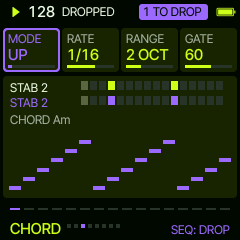
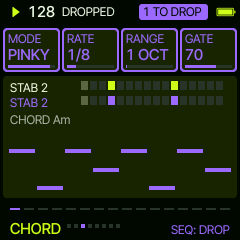
Sardine 0.8.13: ARP turned on from OFF: PINKY, 1/8, one octave, gate 70
Claude-Session: https://claude.ai/code/session_01VgesZgNNDFiPGvKyDTZVUK

diff --git a/firmware/src/sa_ui.c b/firmware/src/sa_ui.c
@@ -1884,7 +1884,14 @@ void sv_knob(sa_ui *u, int k, int d)
         }
         break;
     case SVP_ARP:
-        if (i == 0) e->amode = (uint8_t)sv_clampi(e->amode + d, 0, SA_AR_MODES - 1);
+        if (i == 0 && e->amode == SA_AR_OFF && d > 0) {   /* ARP on: PINKY, 1/8, one octave, gate 70 */
+            e->amode = SA_AR_PINKY;
+            e->arate = SA_RATE_8;
+            e->arange = 1;
+            e->agate = 70;
+        } else if (i == 0) {
+            e->amode = (uint8_t)sv_clampi(e->amode + d, 0, SA_AR_MODES - 1);
+        }
         else if (i == 1) e->arate = (uint8_t)sv_clampi(e->arate + d, 0, SA_RATES - 1);
         else if (i == 2) e->arange = (uint8_t)sv_clampi(e->arange + d, 1, 4);
         else SV_ADJ(e->agate, 5, 10, 100);

diff --git a/tests/sa_ui_test.c b/tests/sa_ui_test.c
@@ -341,7 +341,11 @@ int main(int argc, char **argv)
     all_palettes("chord_arp");
     press(SV_B_SEQ);
     bars(1);
-    CHECK(g.s.code[SA_L_CHORD].amode == SA_AR_UP, "ARP UP dropped");
+    {
+        const sa_code *c = &g.s.code[SA_L_CHORD];
+        CHECK(c->amode == SA_AR_PINKY && c->arate == SA_RATE_8 && c->arange == 1 && c->agate == 70,
+              "ARP on: PINKY, 1/8, one octave, gate 70, dropped");
+    }
     fx_to(SVP_GATE);
     press(SV_B_REC);
     sv_key(&ui, SV_KEY_LO + 2, true);

diff --git a/firmware/src/sa_version.h b/firmware/src/sa_version.h
@@ -2,5 +2,5 @@
 /* Sardine's version: the splash, MENU, the package and the release (the workflow reads SA_VERSION here) */
 #ifndef SA_VERSION_H
 #define SA_VERSION_H
-#define SA_VERSION "0.8.12"
+#define SA_VERSION "0.8.13"
 #endif

diff --git a/docs/MANUAL.md b/docs/MANUAL.md
@@ -1,6 +1,6 @@
 # Sardine manual
 
-Sardine 0.8.12. Live club mixing on the FM-1: four layers, always there, each one on or OFF: **LEAD**, **CHORD**,
+Sardine 0.8.13. Live club mixing on the FM-1: four layers, always there, each one on or OFF: **LEAD**, **CHORD**,
 **BASS** and **DRUMS**. A layer is a sound and a pattern, bent by modifiers. Its sound, filter, pan and level act at
 once, as you turn; its pattern, steps and modifiers wait, in the second colour, until **SEQ** drops them in on the
 one: the next bar line.
@@ -125,7 +125,8 @@ type sets its DEPTH when you pick it: PADS 100 %, KEYS 80 %, BASS 50 %, LEADS 10
 back (50: over most of a beat), SOURCE whether it follows the kick layer's hits (KICK: mute the kick and it stops) or
 every beat (BEAT). The drums never duck.
 
-Every synth layer has an arpeggiator: OFF until you turn MODE. It plays the chord of the bar over the notes the pattern holds,
+Every synth layer has an arpeggiator: OFF until you turn MODE. Turned on from OFF it starts as PINKY at 1/8, one octave,
+gate 70; turn on from there (left for UP and the rest). It plays the chord of the bar over the notes the pattern holds,
 so it is always in key, and swings with FEEL. GATE cuts a held chord to a rhythm by its volume, without a new attack.
 
 ## Steps (REC)

diff --git a/README.md b/README.md
@@ -59,7 +59,7 @@ second colour, until SEQ drops them in on the one.
 
 ## Install
 
-Version 0.8.12: [install it on the FM-1](https://delirioux.github.io/sardine/install/) from Chrome or Edge (Web MIDI), with
+Version 0.8.13: [install it on the FM-1](https://delirioux.github.io/sardine/install/) from Chrome or Edge (Web MIDI), with
 the FM-1 on USB, or [try it in the browser](https://delirioux.github.io/sardine/try/) first. The `dev` branch's test
 build: [install](https://delirioux.github.io/sardine/dev/install/), [try](https://delirioux.github.io/sardine/dev/try/).
 Installing firmware is at your own risk; Felucca's [installer](https://hugelton.github.io/Felucca/webapp/installer/)

diff --git a/docs/RELEASE.md b/docs/RELEASE.md
@@ -1,4 +1,4 @@
-Sardine 0.8.12: live club mixing for the FM-1.
+Sardine 0.8.13: live club mixing for the FM-1.
 
 - Four layers, always there, each on or OFF: LEAD, CHORD, BASS and DRUMS. PRESETS goes from one to the next, FX
   through a layer's pages (MIX: VOLUME TYPE INSTR MUTE, ARP, PAN, 3D, PUMP, GATE, MOD; DRUMS: MIX, KIT, MOD), HOME back to them all

diff --git a/docs/ROADMAP.md b/docs/ROADMAP.md
@@ -1,6 +1,6 @@
 # The road to 1.0
 
-Sardine 0.8.12 has everything planned for 1.0. What is left is listening on the FM-1 and tuning what it shows.
+Sardine 0.8.13 has everything planned for 1.0. What is left is listening on the FM-1 and tuning what it shows.
 
 ## To check on the FM-1
 
